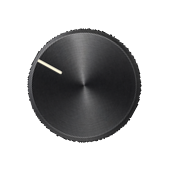
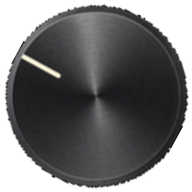
feat(ui): enhance EQ panel wells knobs and LED meter

diff --git a/ui_concept/preview_eq_module.py b/ui_concept/preview_eq_module.py
@@ -37,7 +37,7 @@ class EqChannelConcept:
     PANEL = (25, 25, 365, 665)
     METER_X = 66
     KNOB_X = 255
-    KNOB_YS = (165, 295, 425, 555)
+    KNOB_YS = (150, 300, 450, 590)
     SOCKET_R = 54
     KNOB_R = 40
 
@@ -98,9 +98,9 @@ class EqChannelConcept:
         for index, y in enumerate(self.KNOB_YS):
             self.knob_items.append(c.create_image(self.KNOB_X, y, anchor="center",
                                                    image=self.knob_frames[0]))
-            c.create_text(self.KNOB_X, y - 68, text=self.BANDS[index],
+            c.create_text(self.KNOB_X, y - 60, text=self.BANDS[index],
                           fill=TEXT, font=("Consolas", 9, "bold"))
-            c.create_text(self.KNOB_X, y + 68, text=self.VALUES[index],
+            c.create_text(self.KNOB_X, y + 60, text=self.VALUES[index],
                           fill=TEXT_DIM, font=("Consolas", 8, "bold"))
 
         c.create_line(x1 + 14, 639, x2 - 14, 639, fill=EDGE_DARK)
@@ -117,6 +117,7 @@ class EqChannelConcept:
                           outline=AMBER, width=2, tags="dynamic")
 
     def _draw_meter(self, level: float) -> None:
+        """Draw individual recessed LED lenses, not a flat colour ladder."""
         c = self.canvas
         segments, seg_h, gap = 22, 14, 7
         bottom = 600
@@ -125,17 +126,30 @@ class EqChannelConcept:
             y2 = bottom - index * (seg_h + gap)
             y1 = y2 - seg_h
             if index < 14:
-                on, off = GREEN, "#183019"
+                on, dim, highlight = GREEN, "#153018", "#b6e2a9"
             elif index < 19:
-                on, off = YELLOW, "#382e13"
+                on, dim, highlight = YELLOW, "#3a2d11", "#ffe08a"
             else:
-                on, off = RED, "#351513"
-            c.create_rectangle(57, y1, 75, y2,
-                               fill=on if index < lit else off,
-                               outline="", tags="dynamic")
+                on, dim, highlight = RED, "#3a1412", "#ff9a89"
+
+            active = index < lit
+            # Deep individual window, recessed into the meter bay.
+            c.create_rectangle(49, y1 - 1, 83, y2 + 1,
+                               fill="#050706", outline="#111816", tags="dynamic")
+            c.create_rectangle(53, y1 + 2, 79, y2 - 2,
+                               fill=on if active else dim, outline="", tags="dynamic")
+            if active:
+                # Small upper reflection and lower shadow make each segment
+                # look like a lit physical lens rather than a painted block.
+                c.create_line(54, y1 + 3, 78, y1 + 3,
+                              fill=highlight, tags="dynamic")
+                c.create_line(54, y2 - 3, 78, y2 - 3,
+                              fill=dim, tags="dynamic")
 
         if self.clip:
+            c.create_rectangle(40, 63, 92, 97, fill="#4a1512", outline="#b84337", tags="dynamic")
             c.create_rectangle(46, 69, 86, 91, fill=RED, outline="#ff8b76", tags="dynamic")
+            c.create_line(49, 71, 83, 71, fill="#ffd1c4", tags="dynamic")
             c.create_text(66, 80, text="CLIP", fill="#fff6ed",
                           font=("Consolas", 7, "bold"), tags="dynamic")
 

diff --git a/ui_concept/assets/eq_final/README.md b/ui_concept/assets/eq_final/README.md
@@ -5,8 +5,8 @@ These assets belong only to the approved standalone EQ module geometry in `../..
 | Asset | Pixel size | Display size |
 |---|---:|---:|
 | `eq_channel_panel_680x1280.png` | 680 × 1280 | 340 × 640 logical pixels |
-| `eq_knob_cap_176x176.png` | 176 × 176 | 88 × 88 logical pixels |
-| `knob_frames/00.png` … `11.png` | 176 × 176 each | 12 whole-knob rotation positions |
+| `eq_knob_cap_192x192.png` | 192 × 192 | 96 × 96 logical pixels |
+| `knob_frames/00.png` … `11.png` | 192 × 192 each | 12 whole-knob rotation positions |
 
 The panel includes the outer faceplate, exact meter recess, CLIP lens, and four 270-degree socket/tick scales. The application renders live LED segments, text, selected-band ring, and a whole rotating knob sprite above it.
 
